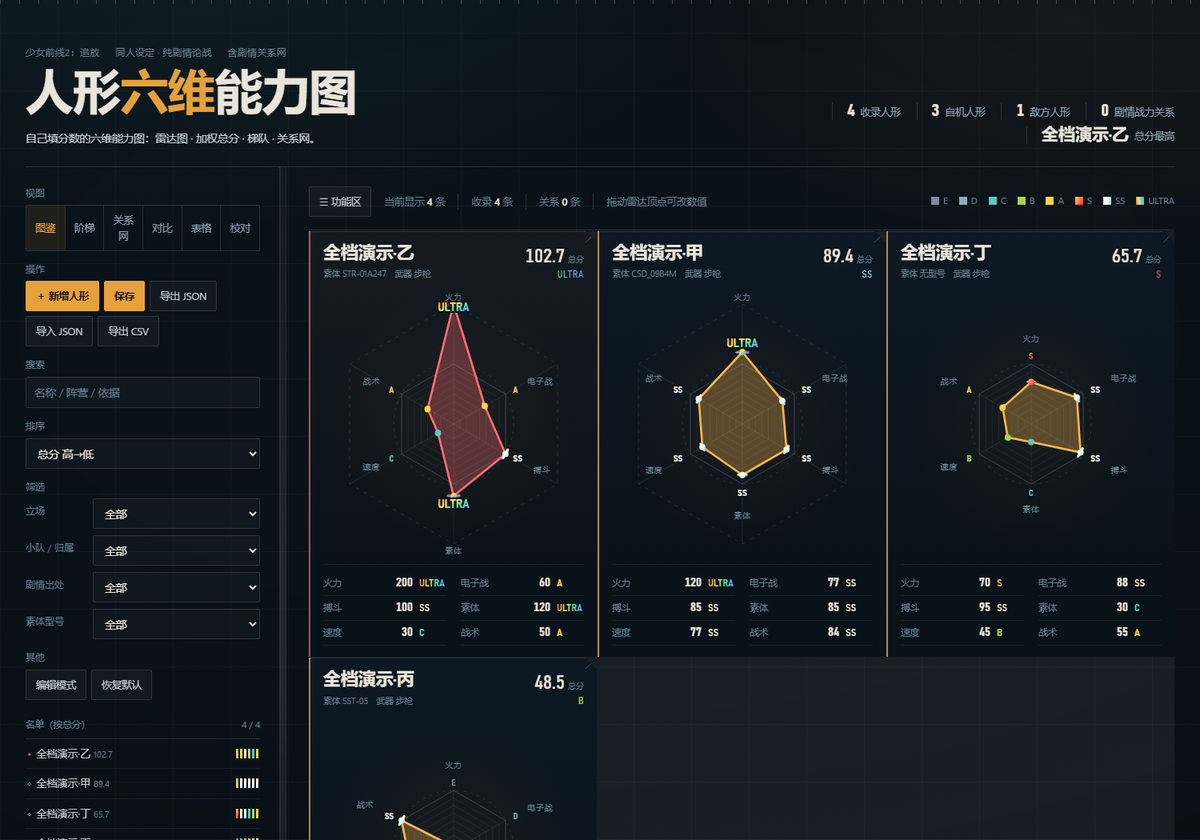
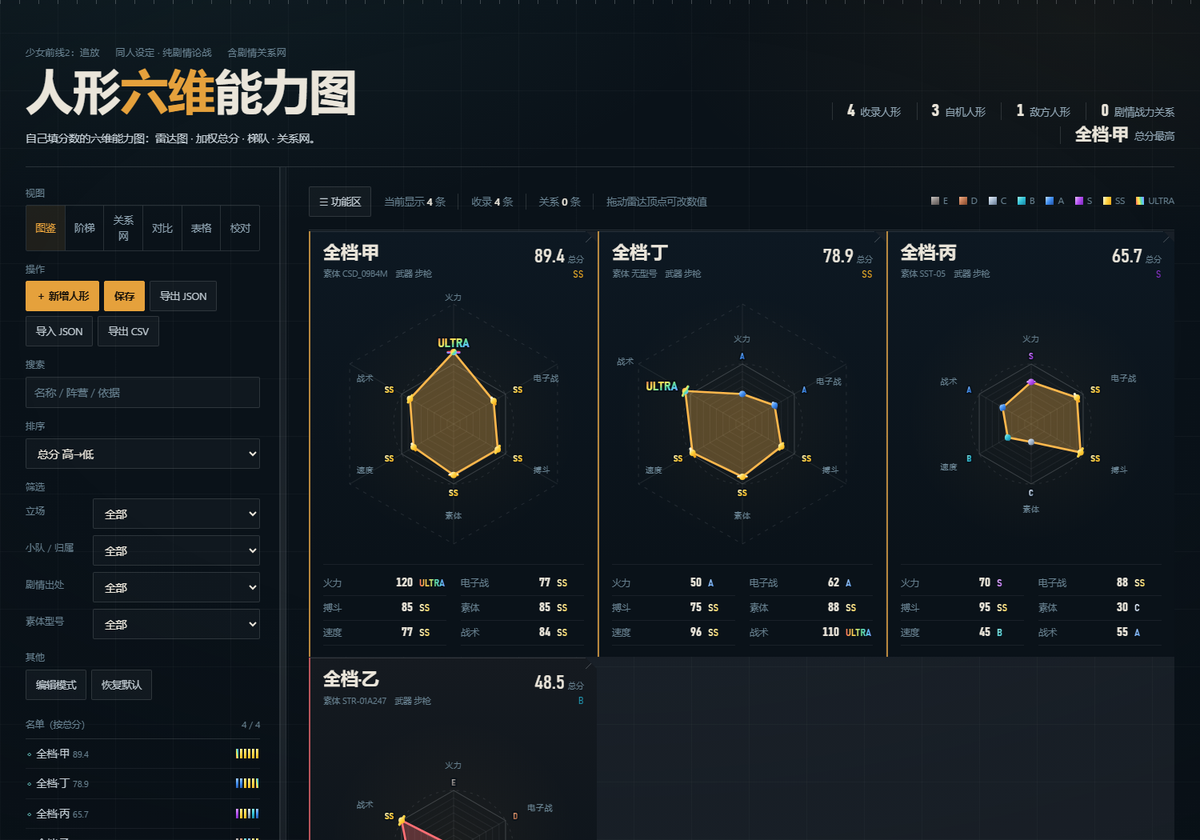
ui(colors): 档位配色改成 LoL 现役段位徽章取色（E–A 也换、S 改紫、SS 更黄）
- 从 CommunityDragon 下载 10 个现役段位徽章，Pillow 取样主色，按暗底可读性提亮成三段渐变
- 映射：E 黑铁 iron／D 黄铜 bronze／C 白银 silver／B 铂金 platinum／A 钻石 diamond／S 超凡大师 master（紫）／SS 最强王者 challenger（金、比之前更黄）／ULTRA 五彩
- GCOLOR 同步换成各档中间调（供边框/滑条等非渐变场景沿用）
- ULTRA 仍为彩虹渐变 + 14.5px 加大字号；雷达弧/顶点/字母、账本、梯队、图例统一走同一组渐变
- 更新 README 预览图与进展摘要

diff --git a/少前2_人形六维能力图.html b/少前2_人形六维能力图.html
@@ -409,14 +409,21 @@ svg.net{display:block;width:100%;height:auto}
 var GRADES = ['E','D','C','B','A','S','SS','ULTRA'];
 var DIMS = ['火力','电子战能力','搏斗能力','素体强度','速度','战术能力'];
 var DSHORT = ['火力','电子战','搏斗','素体','速度','战术'];
-var GCOLOR = ['#7c8b99','#93a9bb','#5fc7bd','#a8d34e','#ffd24a','#ff5a5f','#eaf6ff','#e08cff'];
-/* 档位配色：E–A 保持原样；S＝超凡大师（绛红＋金），SS＝最强王者（金白蓝，表面发亮），ULTRA＝五彩斑斓 */
+/* 档位配色＝LoL 现役段位徽章取色（CommunityDragon 图标采样，按暗底可读性提亮后转三段渐变）：
+   E 黑铁 iron｜D 黄铜 bronze｜C 白银 silver｜B 铂金 platinum｜A 钻石 diamond
+   S 超凡大师 master（紫）｜SS 最强王者 challenger（金，偏黄）｜ULTRA 五彩斑斓 */
+var GCOLOR = ['#8b8481','#bd7550','#a4b7cd','#2fbfd6','#3f8ef2','#b44ef2','#ffd23f','#e08cff'];
 var GGRAD = {
-  S:     ['#ffd166','#ff7a4d','#d92e46'],
-  SS:    ['#ffe9a8','#ffffff','#7fd8ff'],
+  E:     ['#cbc7c4','#8b8481','#57514f'],
+  D:     ['#f5b189','#bd7550','#7d472c'],
+  C:     ['#eef5ff','#a4b7cd','#63758c'],
+  B:     ['#9cf2e4','#2fbfd6','#1a7f9c'],
+  A:     ['#bcdcff','#3f8ef2','#234f9e'],
+  S:     ['#e6bcff','#b44ef2','#7826b8'],
+  SS:    ['#fffbe0','#ffd23f','#f2a51a'],
   ULTRA: ['#ff4d6d','#ffb84d','#ffe95c','#5fe0a0','#5fc7ff','#b06bff']
 };
-var GGRAD_ANGLE = { S:'120deg', SS:'105deg', ULTRA:'80deg' };
+var GGRAD_ANGLE = { E:'150deg', D:'135deg', C:'140deg', B:'135deg', A:'130deg', S:'120deg', SS:'105deg', ULTRA:'80deg' };
 function gradList(g){ return GGRAD[g].join(','); }
 function gradeStyle(g){ return GGRAD[g]
   ? 'color:' + GCOLOR[GRADES.indexOf(g)] + ';background-image:linear-gradient(' + (GGRAD_ANGLE[g]||'110deg') + ',' + gradList(g) + ');-webkit-background-clip:text;background-clip:text;-webkit-text-fill-color:transparent'

diff --git a/_work/进展摘要.md b/_work/进展摘要.md
@@ -28,7 +28,7 @@
 | 1 | 清空内置数据 | entries／edges／frameBaseline／ultraRule／formVariants.chars 全空，只留口径与框架；旧数据归档 |
 | 2 | 六维图拖动 | 雷达顶点可拖（沿轴 0–200，实时重算总分档位）：图鉴卡片 ＋ 编辑弹窗；坐标用 `getScreenCTM()` 精确换算 |
 | 3 | 手动保存 | 「保存」按钮 ＋「是否覆盖」确认 ＋「保存 •」脏标记 ＋ 关页面拦截；原先的自动保存调用点只标脏 |
-| 5 | 界面重排（2026-10-10 二轮） | 左侧功能栏：**可折叠 ＋ 可拖宽**，顺序改为 视图 → 操作（新增／保存／导入导出）→ 搜索 → 排序 → 筛选 → 其他 → 名单；**新增人形常驻**（空表时页面中央另给按钮）；删掉页面底部整段说明文案；雷达对比度提高（描边 2.4／填充 0.30／档位弧 3／顶点 3.6，网格压暗，阵营色提亮）；**档位配色照 LoL 段位**：E–A 不变，S＝超凡大师（绛红＋金渐变）、SS＝最强王者（金白蓝渐变、发亮）、ULTRA＝五彩渐变且字号加大（10.5→14.5px）；雷达的档位弧/顶点/字母、账本、总分梯队、刻度图例、小色条统一走渐变；**默认 100 环就是图的顶点**（轴止于 100，无越界区），只有该图里出现 >100 的数值时才延长轴、并补一条很淡的虚线六边形越界上限（200），ULTRA 顶点落在这条线上；档位字母与轴名跟随各维顶点 |
+| 5 | 界面重排（2026-10-10 二轮） | 左侧功能栏：**可折叠 ＋ 可拖宽**，顺序改为 视图 → 操作（新增／保存／导入导出）→ 搜索 → 排序 → 筛选 → 其他 → 名单；**新增人形常驻**（空表时页面中央另给按钮）；删掉页面底部整段说明文案；雷达对比度提高（描边 2.4／填充 0.30／档位弧 3／顶点 3.6，网格压暗，阵营色提亮）；**档位配色＝LoL 现役段位徽章取色**（CommunityDragon 图标采样、按暗底提亮成三段渐变）：E 黑铁灰／D 黄铜／C 白银蓝白／B 铂金青／A 钻石蓝／S 超凡大师紫／SS 最强王者金（偏黄）／ULTRA 五彩渐变且字号加大（10.5→14.5px）；雷达的档位弧/顶点/字母、账本、总分梯队、刻度图例、小色条统一走渐变；**默认 100 环就是图的顶点**（轴止于 100，无越界区），只有该图里出现 >100 的数值时才延长轴、并补一条很淡的虚线六边形越界上限（200），ULTRA 顶点落在这条线上；档位字母与轴名跟随各维顶点 |
 | 4 | 删冗余＋打包＋上 git | 清掉 363.7 MB（Edge profile／便携 Python／重复解包表／旧截图／旧 46 MB zip）；新包 `少前2_人形六维能力图_2026-10-10.zip`（0.15 MB）；`git init` 首次提交 |
 
 ## 3. 关键约定（别踩）
